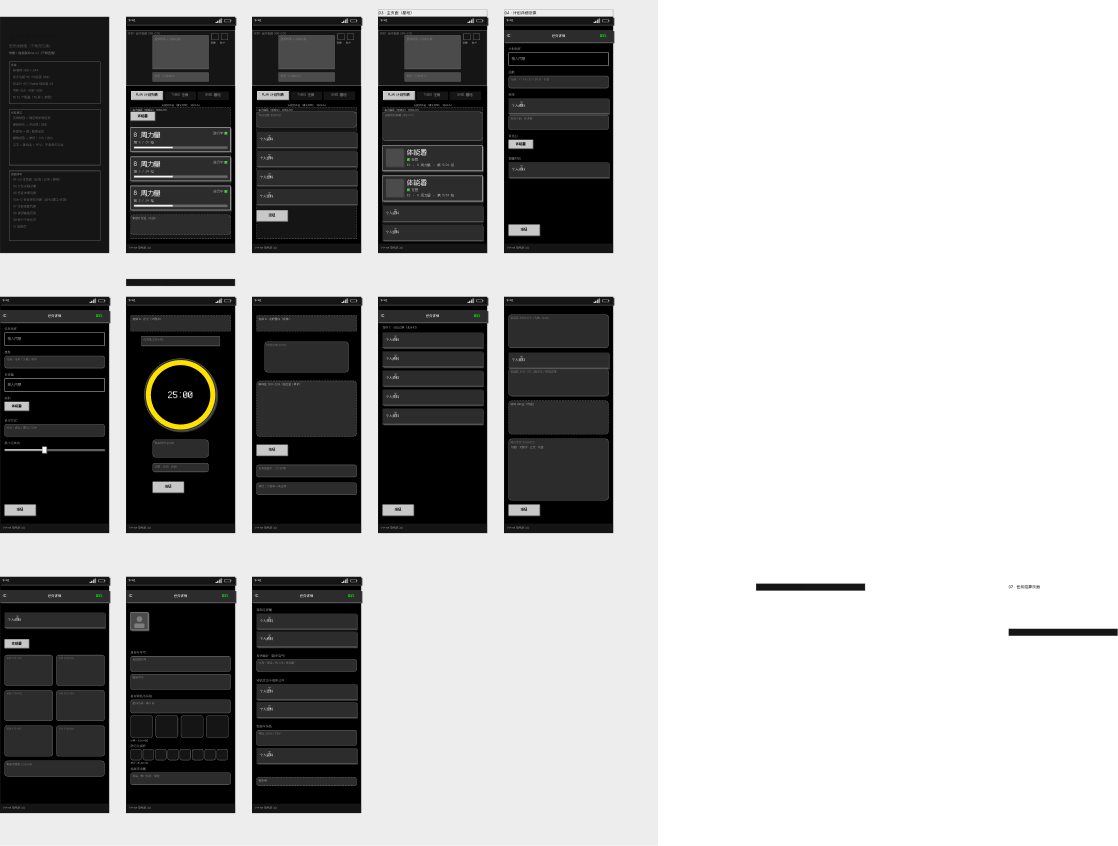
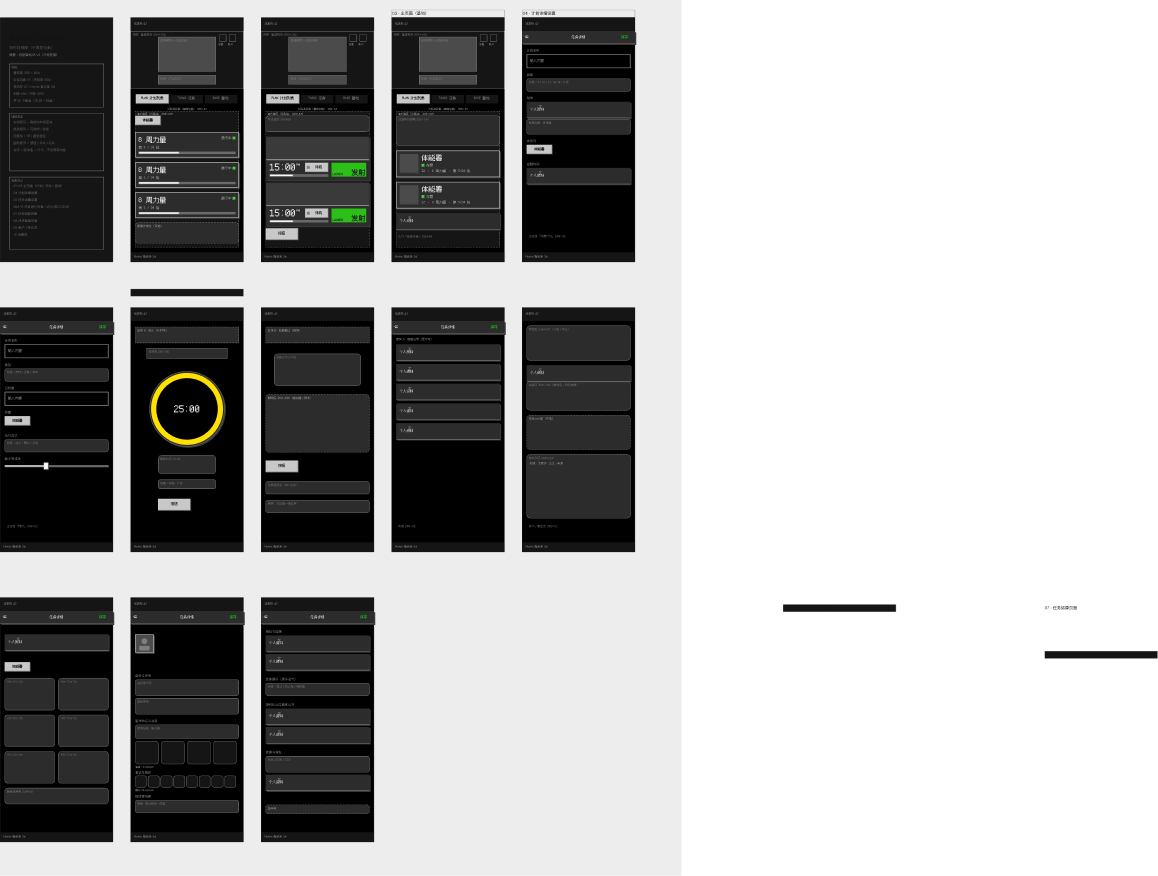
fix(星港计划): 高保真预览两处修正 —— 状态栏不套组件、任务行改用任务卡
用户反馈两处：

一、状态栏不属于项目
状态栏属手机系统，与项目无关，不应套 Bar/Status 组件。
已从映射表移除，保留为线框占位（深色化仍在，作为系统栏区域）。

二、02 屏列表应填任务卡而非输入框
02 屏的「任务行 358×60」原本映射到 Row/List，视觉上像文本输入框。
用户指出应填任务卡 —— 改映射为 Card/Task（state=idle）。

三、连带解决高度变化的重排问题
任务行 60 高、Card/Task 150 高，1:1 替换会重叠。
改为按 y 顺序用游标重排：
  下一个元素放在 max(自身 y, 上一元素底部 + 8)
  若 y + 高 > 784（可用区下界）则只删占位、不放实例
效果：02 屏原 4 行 → 实际放下 2 张任务卡，主按钮顺延到卡片下方。

结果：44 个实例 / 0 失败 / 7 个放不下跳过（原为 63 个实例）。
新板 939:2470；旧的 937:1667 已删除。

留档：design/build-hifi-preview.mjs 更新；13 章第十节同步

diff --git a/星港计划-星际探索任务APP/13-像素组件库规范.md b/星港计划-星际探索任务APP/13-像素组件库规范.md
@@ -534,7 +534,7 @@ style apply SP/Wire/L1 <ids> --field fill         # ← 是 fill，不是 paint/
 
 ## 十、高保真预览 v1
 
-画板 **`高保真预览 v1`（`937:1667`）**，位于 (10500, 0)，13 屏。
+画板 **`高保真预览 v1`（`939:2470`）**，位于 (10500, 0)，13 屏。
 由线框稿 `842:393` 复制，再：
 
 1. **深色配色**（按元素**名称**映射层级，不按几何）
@@ -551,16 +551,16 @@ style apply SP/Wire/L1 <ids> --field fill         # ← 是 fill，不是 paint/
    > **为什么不用几何包含**：试过，L2/L3 算成 0——部分卡片超出了声明高度的
    > 容器范围，包含判定失败。**按名称映射更确定**。
 
-2. **实例化真实组件**（63 个，0 失败）
-   占位名 → 组件集 → 具体变体：
+2. **实例化真实组件**（44 个，0 失败，7 个放不下而跳过）
+   映射表（占位名 → 组件集 → 具体变体）：
 
    | 占位 | 组件集 | 取的变体 |
    |---|---|---|
-   | 状态栏 | `模板/Bar/Status` | `kind=default` |
    | 导航栏 | `模板/Bar/Nav` | `action=text` |
    | 分段选择器 | `模板/Seg/Bar` | `sel=plan` |
    | 筛选芯片 / 周几芯片 | `模板/Chip/Filter` | `on=true` |
    | 计划卡 | `模板/Card/Program` | `state=active` |
+   | **任务行** | **`模板/Card/Task`** | `state=idle` |
    | 设施详情卡 | `模板/Card/Facility` | `state=running` |
    | 输入框 | `模板/Field/Input` | `state=normal` |
    | 各类行 | `模板/Row/List` | `kind=normal` |
@@ -569,7 +569,12 @@ style apply SP/Wire/L1 <ids> --field fill         # ← 是 fill，不是 paint/
    | 滑杆 | `模板/Ctrl/Slider` | `state=normal` |
    | 头像区 | `模板/Avatar` | `shape=square` |
 
-   实例化后**删除被替代的占位框**，并删除落在其中的标签文字。
+   **状态栏不套组件**——那属于手机系统，与项目无关，保留为线框占位。
+
+   **高度变化的重排**：`任务行` 是 358×60，而 `Card/Task` 是 358×150，
+   1:1 替换会重叠。改为**按 y 顺序用游标重排**：下一个元素放在
+   `max(自身 y, 上一元素底部+8)`；若超出可用区（y+高 > 784）则**只删占位、不放实例**。
+   例：02 屏原 4 行 → 实际放下 **2 张任务卡**，主按钮顺延到卡片下方。
 
    截图：[design/高保真预览-v1.png](design/高保真预览-v1.png)
 
